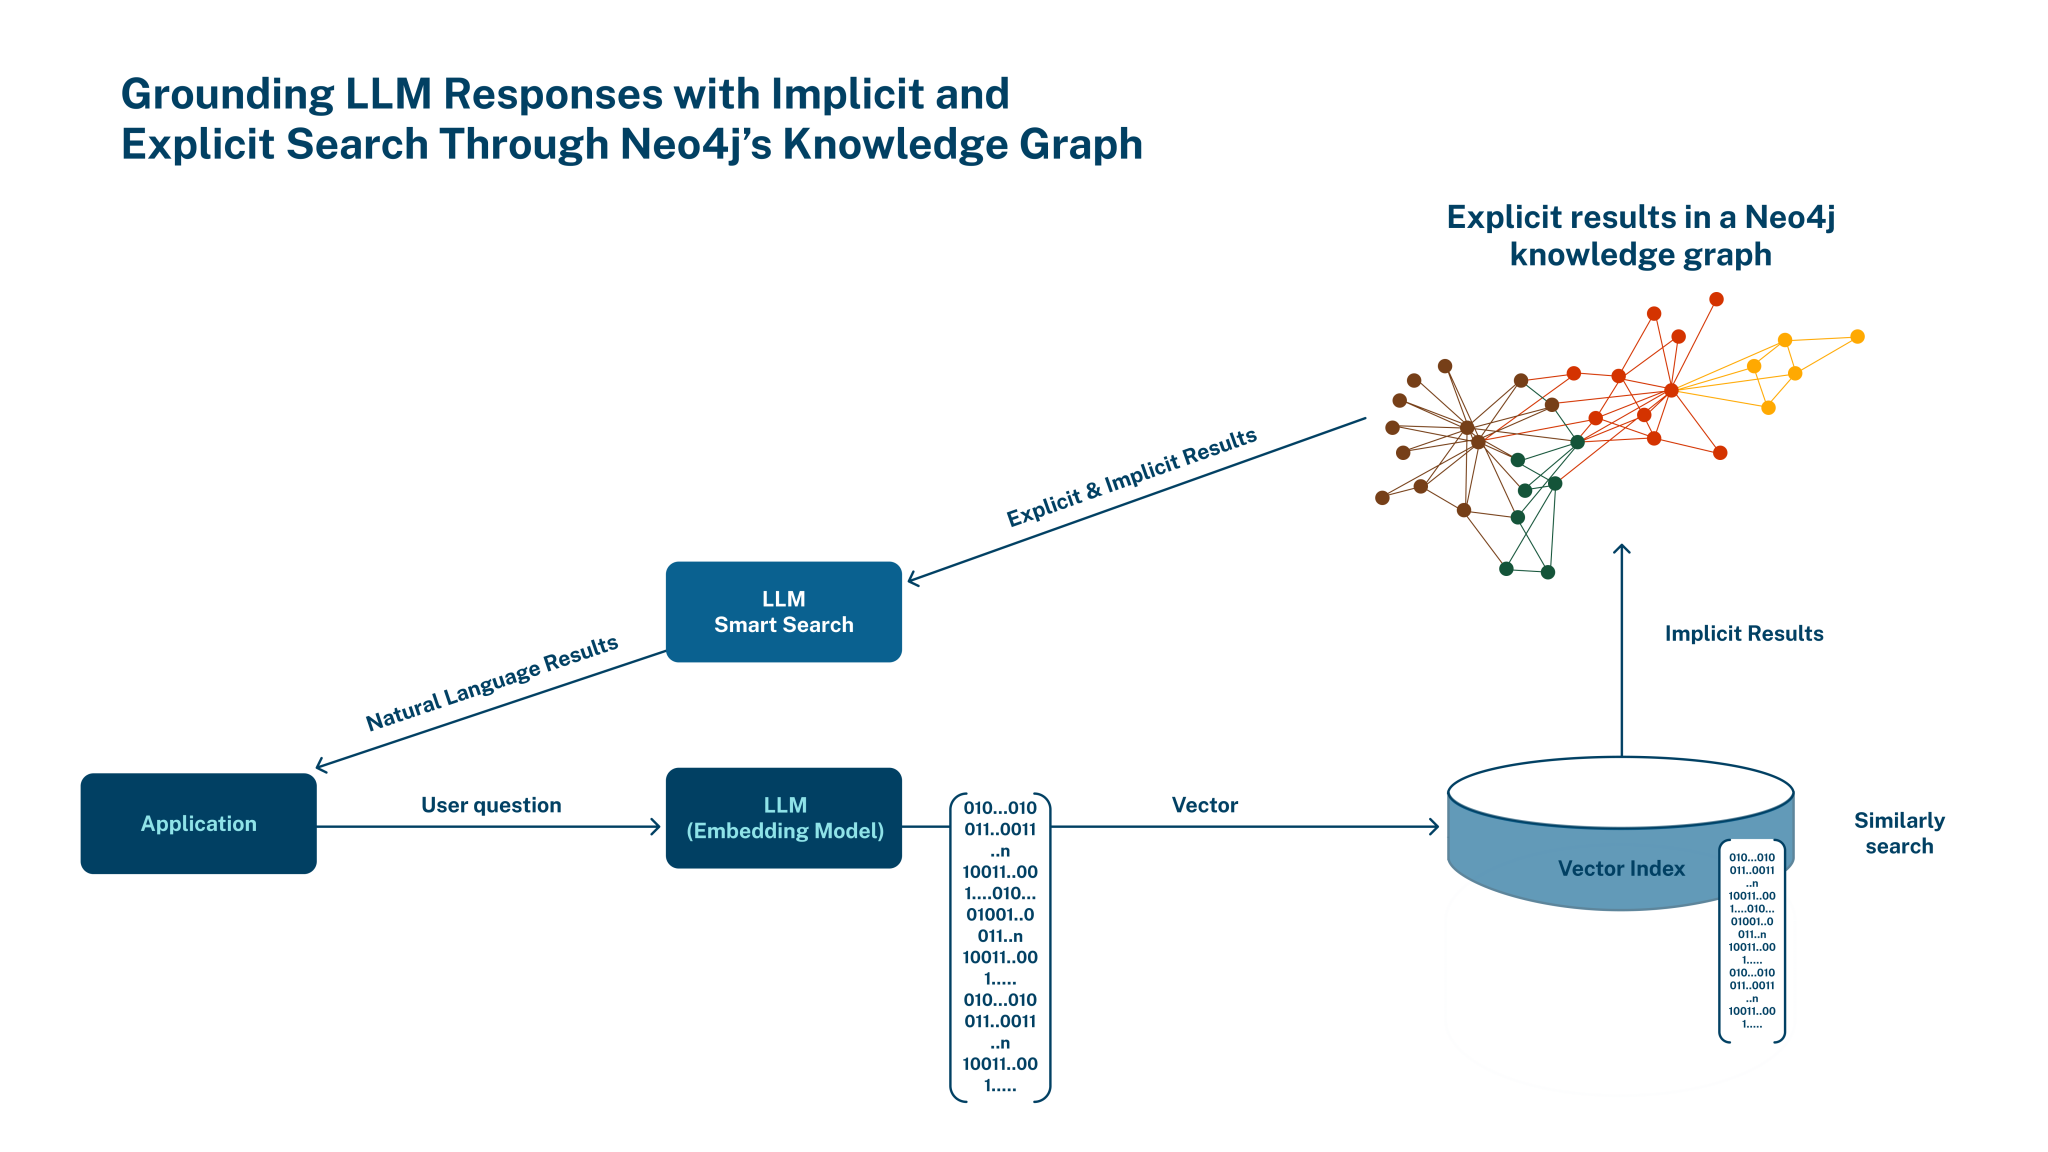
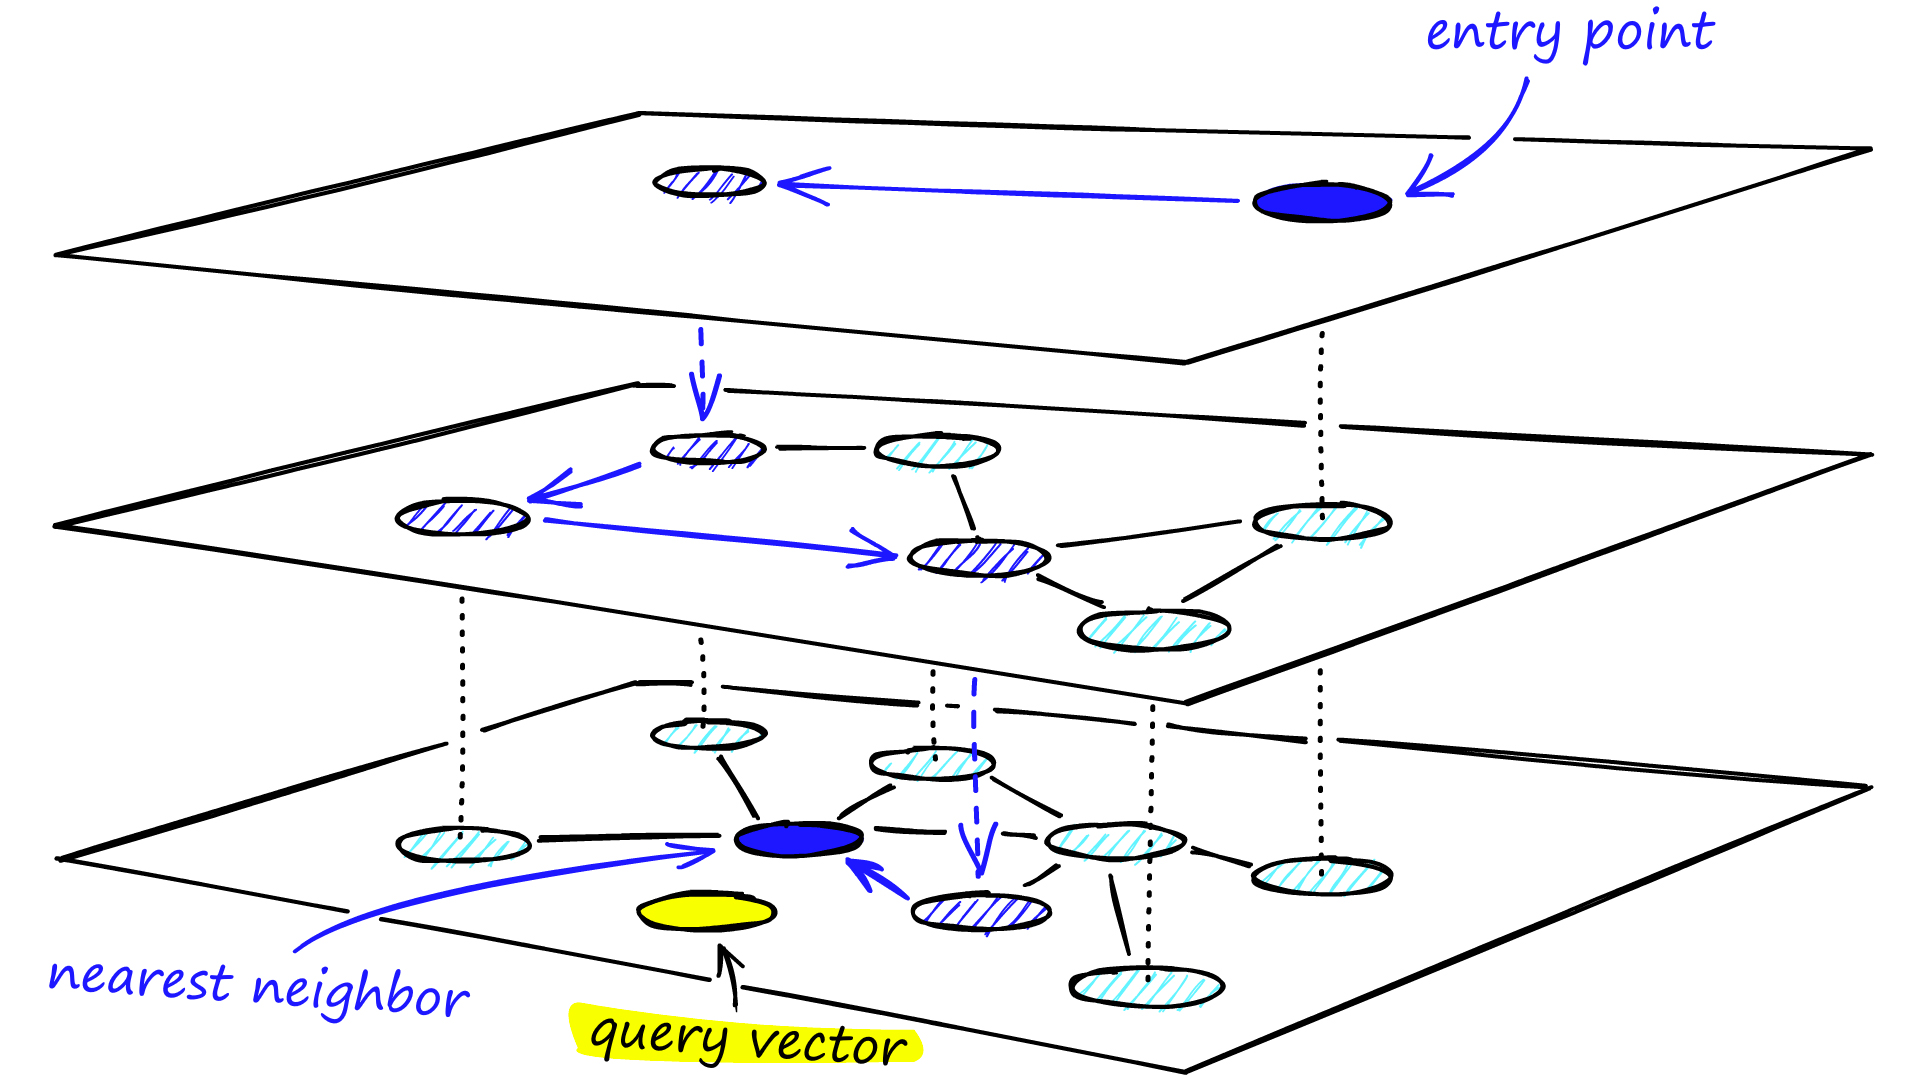
fix(bab-2): replace wrong Gambar 2.2 image with correct HNSW diagram (#31)
Gambar 2.2 (fig:hnsw) showed the Neo4j GraphRAG architecture diagram
instead of the HNSW layered-graph illustration its caption promises.
Root cause: commit 5ebacd1 renamed image23.png (the GraphRAG marketing
diagram) to hnsw-structure.png; the real HNSW figure was never imported.

- Swap hnsw-structure.png for the canonical HNSW layered-graph diagram
  (Pinecone), which matches the surrounding prose (entry point, greedy
  descent across layers, query vector / nearest neighbor).
- Add @online bib entry briggs_hierarchical_nodate for the Pinecone source.
- Update caption to credit Pinecone, based on the Malkov & Yashunin (2020)
  algorithm, fixing the prior misattribution.

diff --git a/src/01-body/bab-2.tex b/src/01-body/bab-2.tex
@@ -212,7 +212,7 @@ Gambar~\ref{fig:hnsw}.
   \centering
   \includegraphics[width=\maxwidth]{assets/pics/hnsw-structure.png}
   \caption{Ilustrasi struktur graf berlapis HNSW
-  (diadaptasi dari \textcite{malkov_efficient_2020}).}
+  (diadaptasi dari \textcite{briggs_hierarchical_nodate}, berdasarkan algoritma \textcite{malkov_efficient_2020}).}
   \label{fig:hnsw}
 \end{figure}
 
